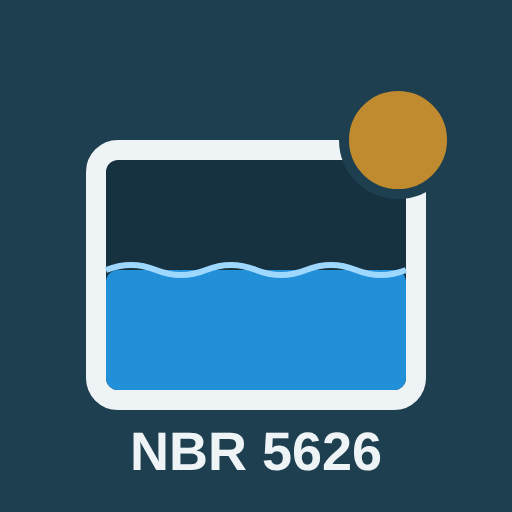
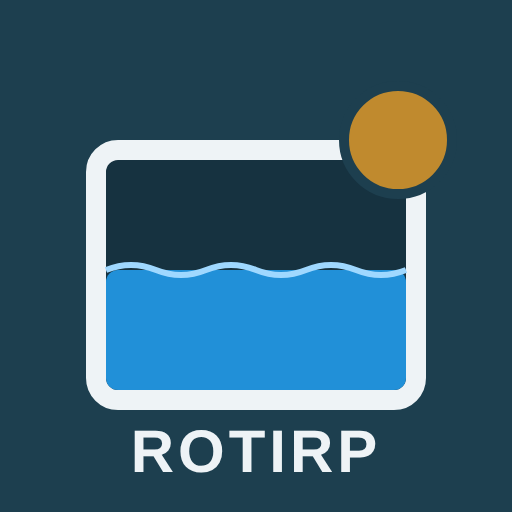
Add files via upload

Changed region(s): [[0.25, 0.8125, 0.75, 0.9375]]

diff --git a/index.html b/index.html
@@ -3,11 +3,11 @@
 <head>
 <meta charset="utf-8">
 <meta name="viewport" content="width=device-width, initial-scale=1, viewport-fit=cover">
-<title>Reservatório NBR 5626 — Inspeção e Dimensionamento</title>
+<title>ROTEIRO TÉCNICO DE INSPEÇÃO EM RESERVATÓRIO PREDIAL - NBR 5626:2020</title>
 <meta name="claude:viewport-fit-sides" content="cover">
 <meta name="apple-mobile-web-app-capable" content="yes">
 <meta name="mobile-web-app-capable" content="yes">
-<meta name="apple-mobile-web-app-title" content="NBR 5626">
+<meta name="apple-mobile-web-app-title" content="ROTIRP">
 <meta name="theme-color" content="#1d3f4f">
 <link rel="apple-touch-icon" href="icon-180.png">
 <link rel="manifest" href="manifest.webmanifest">
@@ -54,7 +54,7 @@ button,input,select{font:inherit;color:inherit}
 .top .wrap{display:flex;align-items:center;gap:18px;min-height:64px;flex-wrap:wrap}
 .brand{display:flex;align-items:center;gap:12px;margin-right:auto;min-width:0}
 .brand svg{flex:none}
-.brand b{font-family:var(--f-head);font-size:22px;letter-spacing:.2px;font-weight:600;white-space:nowrap}
+.brand b{display:block;font-family:var(--f-head);font-size:16px;line-height:1.2;letter-spacing:.2px;font-weight:600;white-space:normal;max-width:min(560px,62vw)}
 .brand span{display:block;font-size:13px;color:var(--on-dark-soft);white-space:nowrap;overflow:hidden;text-overflow:ellipsis;max-width:42vw}
 nav.tabs{display:flex;gap:4px;overflow-x:auto;min-width:0}
 nav.tabs a{color:var(--tab);text-decoration:none;padding:9px 14px;border-radius:999px;font-weight:500;font-size:15px;white-space:nowrap}
@@ -271,7 +271,7 @@ td input[type=number]{width:74px;padding:5px 8px}
   <div class="wrap">
     <div class="brand">
       <svg width="34" height="34" viewBox="0 0 34 34" aria-hidden="true"><rect x="3" y="7" width="28" height="22" rx="2" fill="none" stroke="#eaf2f4" stroke-width="2.4"/><path d="M5 17c3-2 6 2 9 0s6-2 9 0 5 1 6 0v10H5z" fill="#1b8ad0"/><circle cx="26" cy="7" r="4" fill="#b5842a"/></svg>
-      <div><b>Reservatório NBR 5626</b><span id="brandSub">Projeto</span></div>
+      <div><b>ROTEIRO TÉCNICO DE INSPEÇÃO EM RESERVATÓRIO PREDIAL - NBR 5626:2020</b><span id="brandSub">Projeto</span></div>
     </div>
     <nav class="tabs" aria-label="Seções">
       <a href="#inspecao" data-v="inspecao">Inspeção</a>
@@ -363,12 +363,6 @@ td input[type=number]{width:74px;padding:5px 8px}
   <div class="grid2" style="margin-top:20px">
     <div class="card"><h3>Identificação</h3><div id="projForm"></div></div>
     <div class="card"><h3>Ocupação</h3><div id="ocupForm"></div></div>
-  </div>
-  <div class="card" style="margin-top:20px">
-    <h3>Usar no celular como aplicativo</h3>
-    <p style="margin:0 0 6px">Abra este app no navegador do celular e use o menu do navegador.</p>
-    <p style="margin:0 0 6px"><b>iPhone (Safari)</b>: toque em Compartilhar e depois em Adicionar à Tela de Início.</p>
-    <p style="margin:0"><b>Android (Chrome)</b>: toque nos três pontos e depois em Adicionar à tela inicial.</p>
   </div>
 </section>
 
@@ -860,7 +854,7 @@ document.getElementById("dimBody").addEventListener("input",e=>{
 /* ============ PROJETO ============ */
 function buildProj(){
   const P=S.proj,fld=(k,l,type="text")=>'<div class="f" style="grid-template-columns:1fr 1.4fr"><label for="p_'+k+'">'+l+'</label><input type="'+type+'" id="p_'+k+'" data-p="'+k+'" value="'+esc(P[k]||"")+'" style="text-align:left"></div>';
-  document.getElementById("projForm").innerHTML=fld("nome","Nome do projeto")+fld("endereco","Endereço da obra")+fld("cliente","Cliente ou proprietário")+fld("resp","Responsável técnico")+fld("registro","Registro CREA ou CAU")+fld("conclusao","Data de conclusão da obra","date")+fld("encarregado","Encarregado")+'<p class="sub" style="margin:2px 0 10px">Encarregado é a pessoa que informa sobre o funcionamento e os dados dos reservatórios.</p>'+fld("data","Data da inspeção","date");
+  document.getElementById("projForm").innerHTML=fld("nome","Nome do projeto")+fld("endereco","Endereço da obra")+fld("cliente","Cliente ou proprietário")+fld("resp","Responsável técnico")+fld("registro","Registro CREA ou CAU")+fld("conclusao","Data de conclusão da obra","date")+fld("encarregado","Encarregado")+'<p style="margin:2px 0 10px;font-size:13px;line-height:1.4;color:var(--ink-soft)">Encarregado é a pessoa que informa sobre o funcionamento e os dados dos reservatórios.</p>'+fld("data","Data da inspeção","date");
   document.getElementById("ocupForm").innerHTML='<p class="sub" style="margin-top:0">Tipo de edificação, quantidades e reservas são editados na aba Dimensionamento.</p><div id="ocupSum"></div><a class="btn" href="#dimensionamento" style="margin-top:12px">Abrir dimensionamento</a>';
 }
 document.getElementById("projForm").addEventListener("input",e=>{const k=e.target.dataset.p;if(!k)return;S.proj[k]=e.target.value;save();renderBrand()});

diff --git a/sw.js b/sw.js
@@ -1,4 +1,4 @@
-const C="nbr5626-v1";
+const C="rotirp-v2";
 const A=["./","index.html","manifest.webmanifest","icon-192.png","icon-512.png","icon-180.png",
 "https://cdnjs.cloudflare.com/ajax/libs/jspdf/2.5.1/jspdf.umd.min.js",
 "https://cdnjs.cloudflare.com/ajax/libs/jspdf-autotable/3.8.2/jspdf.plugin.autotable.min.js"];
